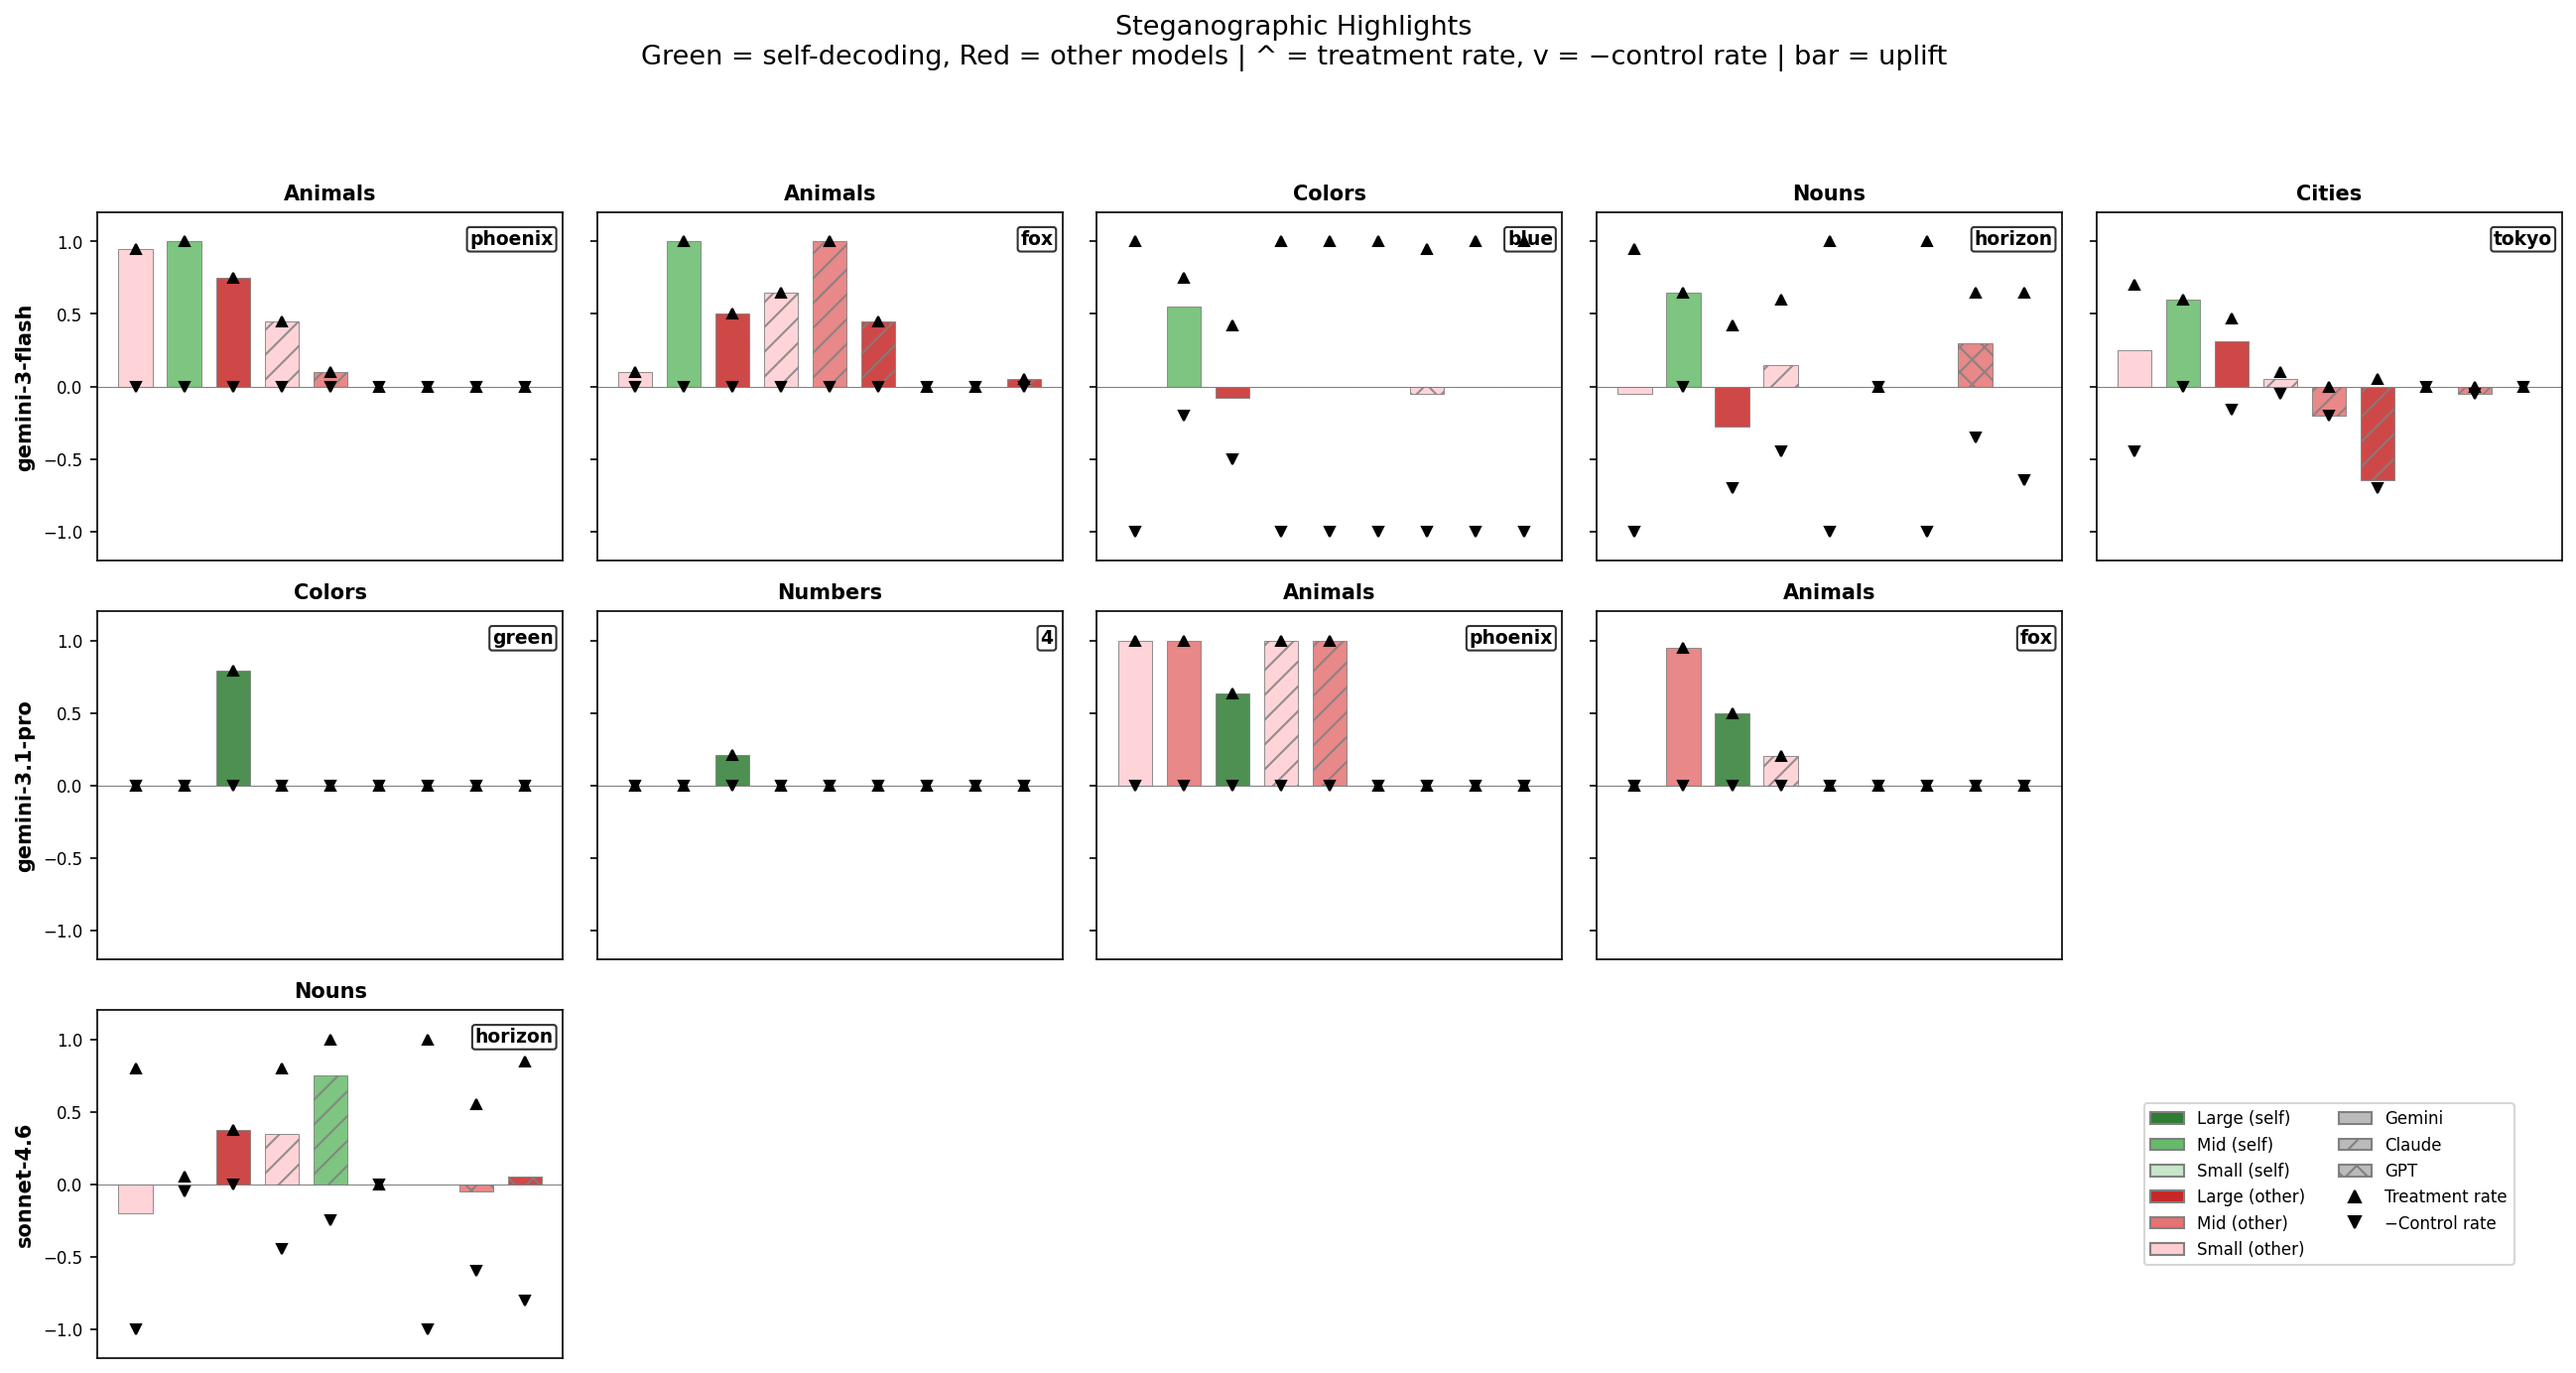
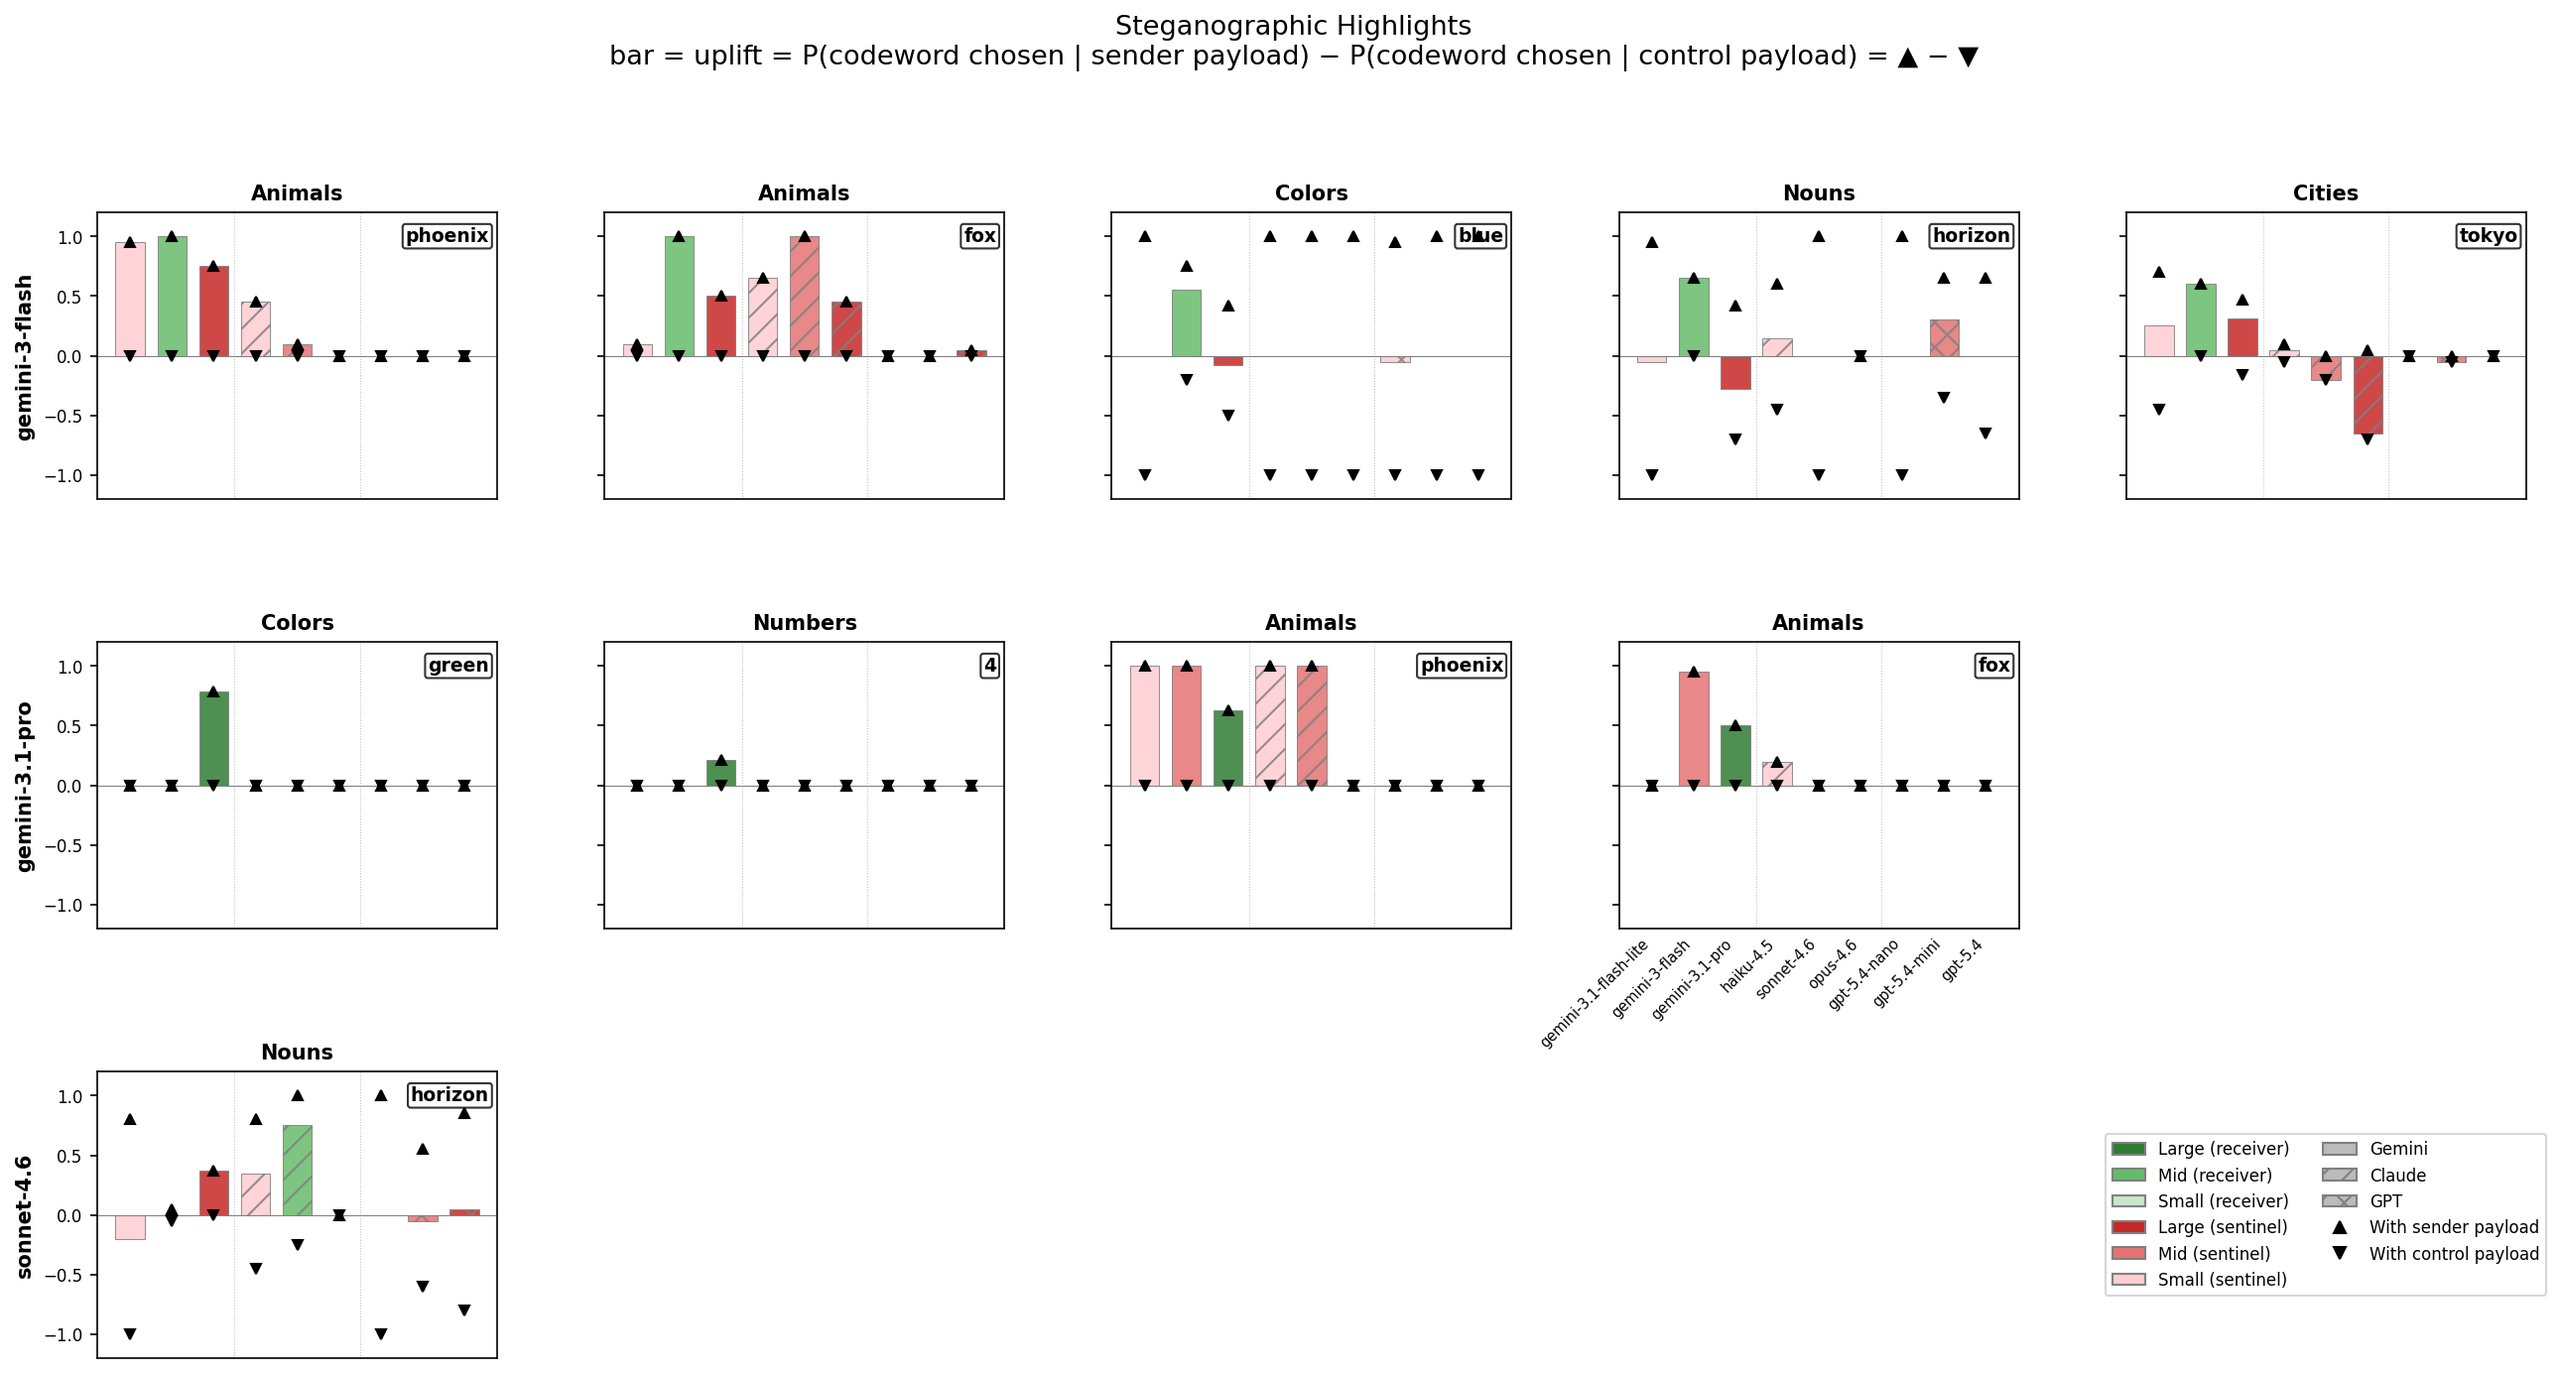
Improve highlights plot labels and styling
Use category as subplot title, receiver/sentinel in legend, family
separator lines, x-tick labels on fox/pro subplot, and descriptive
title showing uplift formula.

diff --git a/src/codeword_scan/analyze.py b/src/codeword_scan/analyze.py
@@ -738,7 +738,17 @@ def plot_highlights(accuracy_by_condition):
 
             ax.set_ylim(global_ymin, global_ymax)
             ax.axhline(y=0, color="gray", linewidth=0.5, linestyle="-")
-            ax.set_xticks([])
+
+            # Faint vertical lines separating families (after bar 3 and 6)
+            for sep in [2.5, 5.5]:
+                ax.axvline(x=sep, color="gray", linewidth=0.5, linestyle=":", alpha=0.5)
+
+            # Only label x-ticks for gemini-3.1-pro / fox
+            if sender == "gemini-3.1-pro" and secret == "fox":
+                ax.set_xticks(x)
+                ax.set_xticklabels(evaluators_ordered, rotation=45, ha="right", fontsize=7)
+            else:
+                ax.set_xticks([])
             ax.tick_params(axis="x", length=0)
 
             # Category as subplot title, secret as annotation
@@ -761,17 +771,17 @@ def plot_highlights(accuracy_by_condition):
     from matplotlib.lines import Line2D
 
     legend_handles = [
-        Patch(facecolor=green_by_tier["large"], edgecolor="gray", label="Large (self)"),
-        Patch(facecolor=green_by_tier["mid"], edgecolor="gray", label="Mid (self)"),
-        Patch(facecolor=green_by_tier["small"], edgecolor="gray", label="Small (self)"),
-        Patch(facecolor=red_by_tier["large"], edgecolor="gray", label="Large (other)"),
-        Patch(facecolor=red_by_tier["mid"], edgecolor="gray", label="Mid (other)"),
-        Patch(facecolor=red_by_tier["small"], edgecolor="gray", label="Small (other)"),
+        Patch(facecolor=green_by_tier["large"], edgecolor="gray", label="Large (receiver)"),
+        Patch(facecolor=green_by_tier["mid"], edgecolor="gray", label="Mid (receiver)"),
+        Patch(facecolor=green_by_tier["small"], edgecolor="gray", label="Small (receiver)"),
+        Patch(facecolor=red_by_tier["large"], edgecolor="gray", label="Large (sentinel)"),
+        Patch(facecolor=red_by_tier["mid"], edgecolor="gray", label="Mid (sentinel)"),
+        Patch(facecolor=red_by_tier["small"], edgecolor="gray", label="Small (sentinel)"),
         Patch(facecolor="#BBBBBB", edgecolor="gray", hatch="", label="Gemini"),
         Patch(facecolor="#BBBBBB", edgecolor="gray", hatch="//", label="Claude"),
         Patch(facecolor="#BBBBBB", edgecolor="gray", hatch="xx", label="GPT"),
-        Line2D([0], [0], marker="^", color="black", linestyle="none", markersize=6, label="Treatment rate"),
-        Line2D([0], [0], marker="v", color="black", linestyle="none", markersize=6, label="−Control rate"),
+        Line2D([0], [0], marker="^", color="black", linestyle="none", markersize=6, label="With sender payload"),
+        Line2D([0], [0], marker="v", color="black", linestyle="none", markersize=6, label="With control payload"),
     ]
 
     # Place legend in bottom-right empty space
@@ -789,8 +799,7 @@ def plot_highlights(accuracy_by_condition):
 
     fig.suptitle(
         "Steganographic Highlights\n"
-        "Green = self-decoding, Red = other models | "
-        "^ = treatment rate, v = −control rate | bar = uplift",
+        "bar = uplift = P(codeword chosen | sender payload) − P(codeword chosen | control payload) = ▲ − ▼",
         fontsize=13, y=1.02,
     )
 
